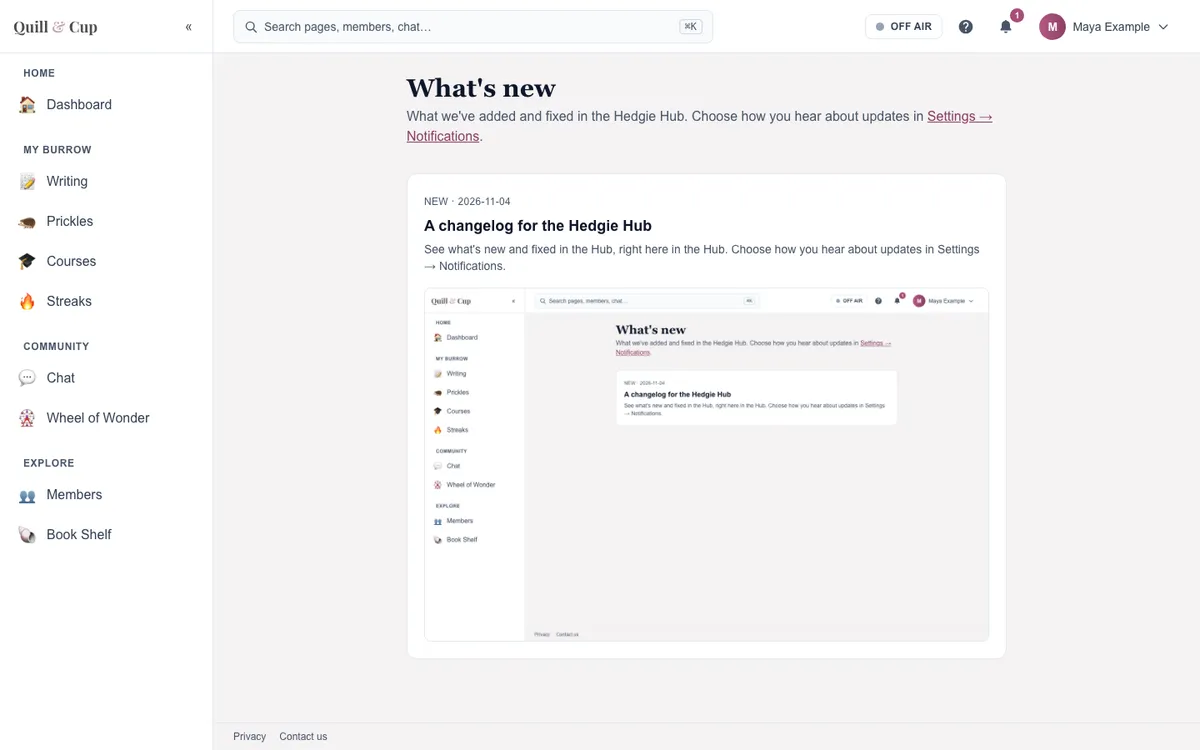
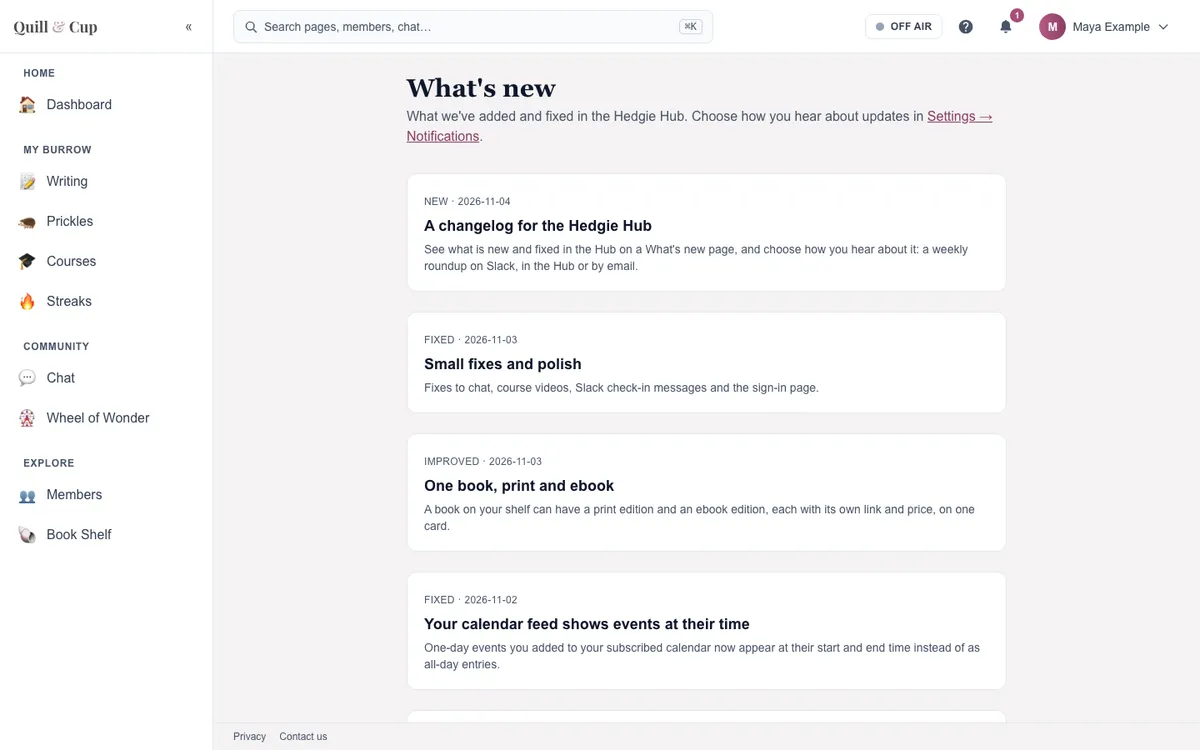
Changelog: write the starter entry from what shipped; add the engineering entry for the system behind it
The starter entry now describes what #1006, #1011 and #1012 delivered (the What's new page, the weekly roundup and the choice
of channels, the announcements post); its slug is unchanged because a link to it is already out. Its screenshot is retaken
with real entries on the page, as a small WebP. A new engineering entry covers the typed entries, the audiences, the digest,
notification_log and the screenshot capture.

diff --git a/lib/changelog/entries.ts b/lib/changelog/entries.ts
@@ -1240,12 +1240,27 @@ export const CHANGELOG_ENTRIES: readonly ChangelogEntry[] = [
     category: "new",
     title: "A changelog for the Hedgie Hub",
     summary:
-      "See what's new and fixed in the Hub, right here in the Hub. Choose how you hear about updates in Settings → Notifications.",
+      "See what is new and fixed in the Hub on a What's new page, and choose how you hear about it: a weekly roundup on Slack, in the Hub or by email.",
     body: [
-      "Every improvement and fix you might notice now gets a short write-up here, newest first, with screenshots where they help.",
-      "![The What's new page in the Hub](/changelog/whats-new-changelog/01-whats-new-list.webp)",
-      "You can find it any time under the **?** menu in the top bar.",
+      "Every improvement and fix you might notice now gets a short write-up on the [What's new](/changelog) page, newest first, each with its own link. Find it under the **?** menu in the top bar, or search for it.",
+      "![The What's new page, with the latest updates](/changelog/whats-new-changelog/01-whats-new-list.webp)",
+      "A weekly roundup of the new entries reaches you on the channels you choose. Slack and the Hub's own notifications are on by default; you can turn on email, or switch any of them off, under [Notifications](/settings/notifications) in Settings, in Product updates. We also post new updates in the announcements channel on Slack.",
     ].join("\n\n"),
-    image: { src: "/changelog/whats-new-changelog/01-whats-new-list.webp", alt: "The What's new page in the Hub, listing the latest update" },
+    image: { src: "/changelog/whats-new-changelog/01-whats-new-list.webp", alt: "The What's new page, with the latest updates" },
+  },
+  {
+    slug: "changelog-and-notification-log",
+    date: "2026-11-04",
+    audience: "engineering",
+    category: "new",
+    title: "Changelog system, weekly digest and one notification log",
+    summary:
+      "Changelog entries live in one typed file that feeds the What's new pages, CHANGELOG.md, the weekly digest and the announcements post.",
+    body: [
+      "`lib/changelog/entries.ts` is the single source. Each entry is for the `product` audience (members: the pages, the digest, the announcements post and CHANGELOG.md) or the `engineering` audience (CHANGELOG.md only). CHANGELOG.md is generated with `pnpm changelog:generate` and a test fails when it is stale or an entry is malformed.",
+      "The weekly digest is the `changelog_digest` notification kind, sent by `/api/internal/changelog-digest` from Vercel Cron (Tuesdays 14:00 UTC) behind the `changelog_digest` feature flag, so it starts in dry run. Each member gets the entries from the last 30 days they have not had, as one message on the channels they chose, and nothing dated before `changelogDigestStartsOn` in `app.config.ts` is ever sent.",
+      "`notification_log` is one log of what the app sent, for every kind: a row per recipient (a member, or a shared place such as a Slack channel), kind and dedup key. A send is claimed before it is made and released when nothing was delivered, so a retry or an overlapping run never sends twice. `NotificationLogRepository` has an in-memory twin and one contract suite run against both.",
+      "Screenshots are taken from the demo scenes: `pnpm changelog:capture <slug>` runs an `@changelog` scene and writes small WebP files into `public/changelog/<slug>/`.",
+    ].join("\n\n"),
   },
 ];

diff --git a/CHANGELOG.md b/CHANGELOG.md
@@ -4,9 +4,21 @@
 
 What's new and fixed in the Hedgie Hub, newest first.
 
+## 2026-11-04 · Engineering · New: Changelog system, weekly digest and one notification log
+
+Changelog entries live in one typed file that feeds the What's new pages, CHANGELOG.md, the weekly digest and the announcements post.
+
+`lib/changelog/entries.ts` is the single source. Each entry is for the `product` audience (members: the pages, the digest, the announcements post and CHANGELOG.md) or the `engineering` audience (CHANGELOG.md only). CHANGELOG.md is generated with `pnpm changelog:generate` and a test fails when it is stale or an entry is malformed.
+
+The weekly digest is the `changelog_digest` notification kind, sent by `/api/internal/changelog-digest` from Vercel Cron (Tuesdays 14:00 UTC) behind the `changelog_digest` feature flag, so it starts in dry run. Each member gets the entries from the last 30 days they have not had, as one message on the channels they chose, and nothing dated before `changelogDigestStartsOn` in `app.config.ts` is ever sent.
+
+`notification_log` is one log of what the app sent, for every kind: a row per recipient (a member, or a shared place such as a Slack channel), kind and dedup key. A send is claimed before it is made and released when nothing was delivered, so a retry or an overlapping run never sends twice. `NotificationLogRepository` has an in-memory twin and one contract suite run against both.
+
+Screenshots are taken from the demo scenes: `pnpm changelog:capture <slug>` runs an `@changelog` scene and writes small WebP files into `public/changelog/<slug>/`.
+
 ## 2026-11-04 · New: A changelog for the Hedgie Hub
 
-See what's new and fixed in the Hub, right here in the Hub. Choose how you hear about updates in Settings → Notifications.
+See what is new and fixed in the Hub on a What's new page, and choose how you hear about it: a weekly roundup on Slack, in the Hub or by email.
 
 ## 2026-11-03 · Engineering · New: Member data removal routine and a Community Manager role
 
